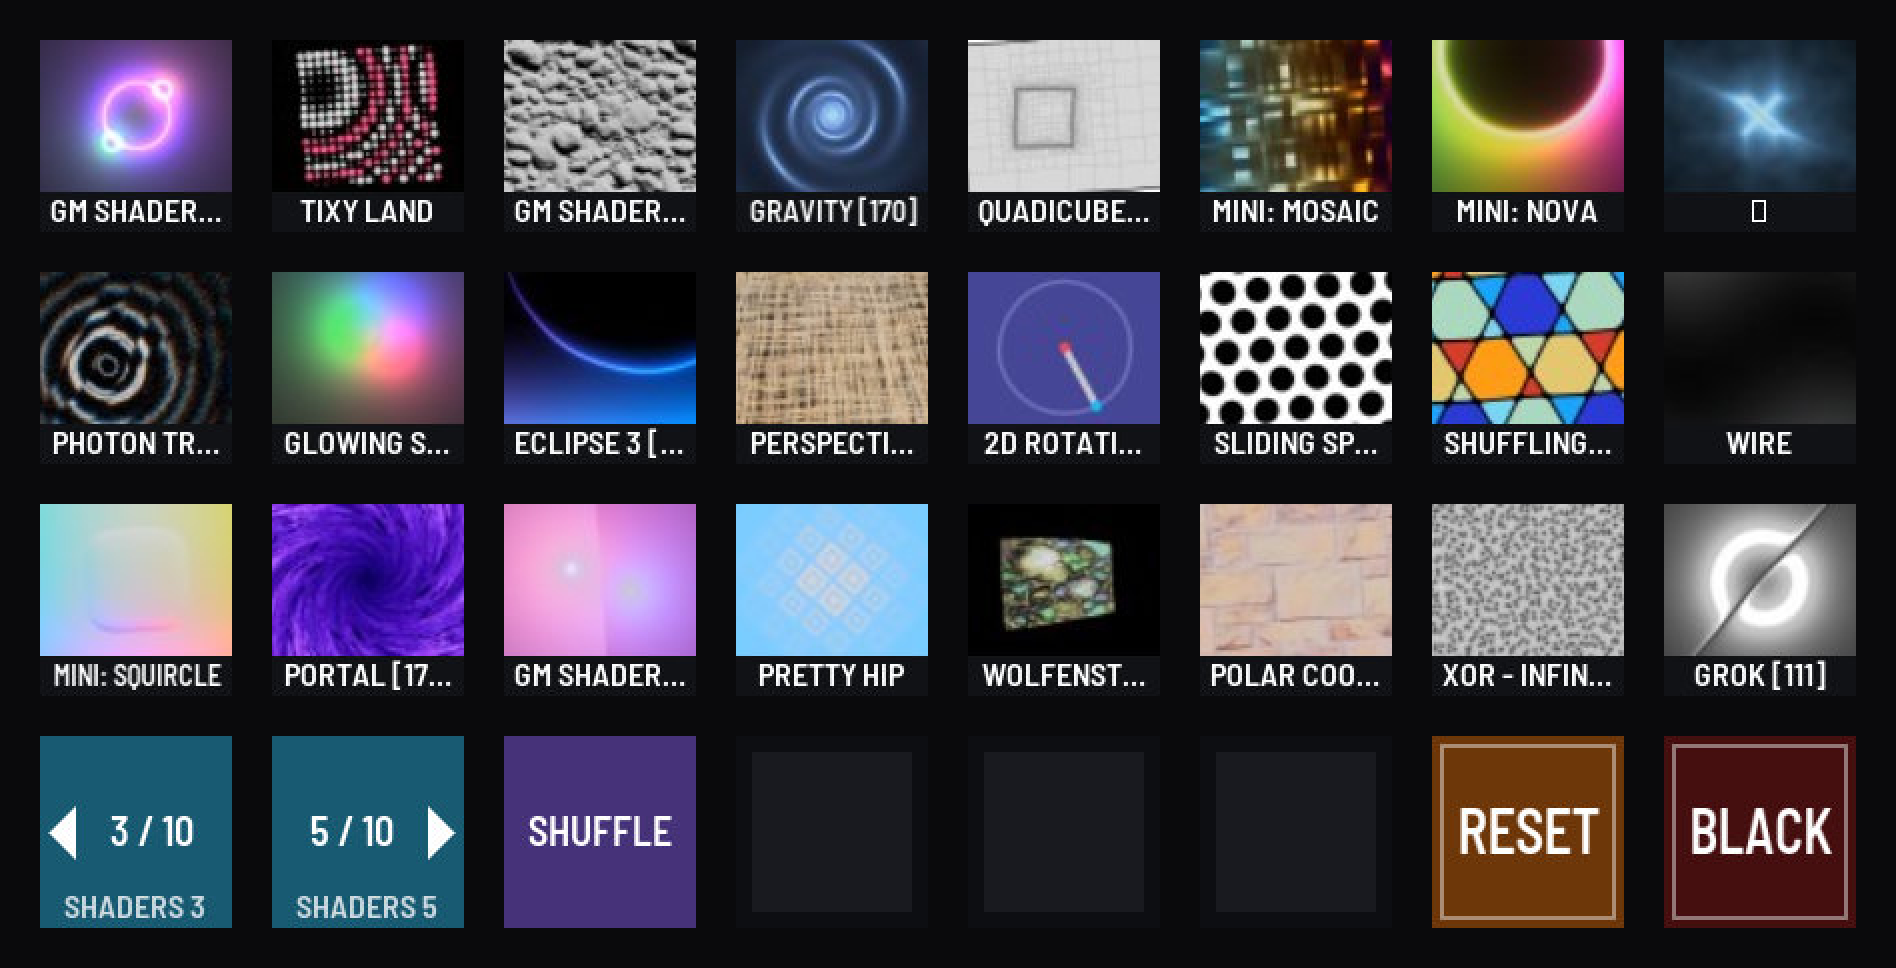
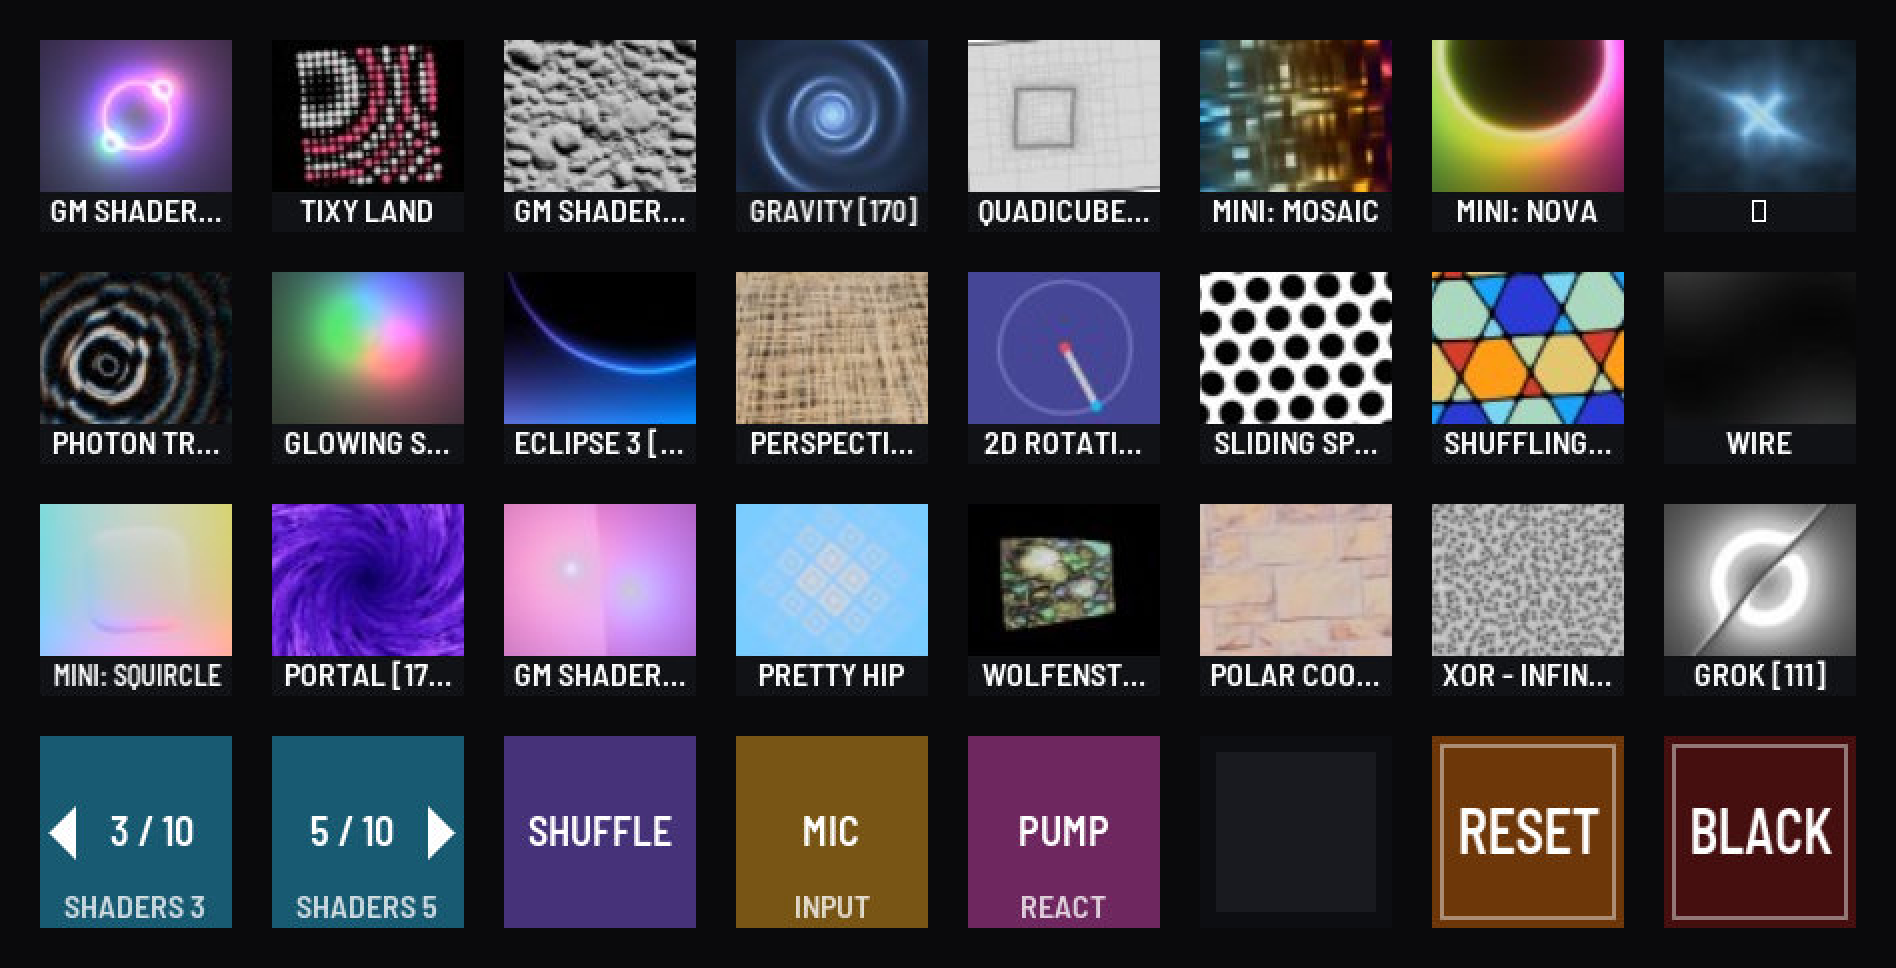
feat(engine): add an input level key and a key that steps through react modes
MIC/LINE sets the sound card's own capture gain (24 dB or 6 dB), ahead of
the converter, and survives a reset. The react key steps through five ways
of handing the music to the shaders: PUMP (as heard), GLIDE (slow
followers, no hits), STEP (a new held pose each beat), RIDE (a steady
travel whose speed and depth follow the energy) and TWIST (bass and mids
trade places). The levels are reshaped in the renderer, so no shader
changes.

Changed region(s): [[0.3734, 0.7438, 0.6224, 0.9607]]

diff --git a/engine/src/audio.rs b/engine/src/audio.rs
@@ -92,6 +92,73 @@ pub fn idle_audio(frame: &AudioFrame, time: f32, amount: f32) -> AudioFrame {
     }
     out
 }
+/// The ways shaders can follow the music, in the order the key steps through them.
+pub const REACT_MODES: [&str; 5] = ["PUMP", "GLIDE", "STEP", "RIDE", "TWIST"];
+/// Share of the zoom and of the turn in each pose that STEP walks through.
+const STEP_POSES: [(f32, f32); 4] = [(1.0, 0.2), (0.3, 1.0), (0.7, 0.5), (0.1, 0.8)];
+/// Reshapes the levels handed to the shaders, so one shader answers the music in
+/// several ways without being changed itself:
+/// - PUMP: the levels as heard; every kick shows.
+/// - GLIDE: slow followers and no hits; the picture swells and sinks with the energy.
+/// - STEP: each beat snaps to a new pose, which holds until the next beat.
+/// - RIDE: a steady travel in and out whose speed and depth follow the energy.
+/// - TWIST: bass and mids trade places, so kicks turn the picture and melody pumps it.
+#[derive(Clone, Debug, Default)]
+pub struct Reactor {
+    /// Followers of bass, mid, treble, volume, sub, low mid and high mid.
+    slow: [f32; 7],
+    held: [f32; 7],
+    shown: [f32; 7],
+    steps: usize,
+    since_beat: f32,
+    in_beat: bool,
+    phase: f32,
+}
+impl Reactor {
+    pub fn apply(&mut self, mode: u8, dt: f32, audio: &AudioFrame) -> AudioFrame {
+        let heard = [audio.bass, audio.mid, audio.treble, audio.volume, audio.sub, audio.low_mid, audio.high_mid];
+        for (slow, level) in self.slow.iter_mut().zip(heard) {
+            let seconds = if level > *slow { 0.5 } else { 1.5 };
+            *slow += (level - *slow) * (1.0 - (-dt / seconds).exp());
+        }
+        // A follower sits well under the peaks it follows; lift it to a comparable size.
+        let glide = self.slow.map(|v| (v * 1.6).min(1.0));
+        let beat = audio.onset > 0.4 && !self.in_beat;
+        self.in_beat = audio.onset > 0.4;
+        self.since_beat += dt;
+        if beat {
+            self.since_beat = 0.0;
+            self.steps += 1;
+            let (zoom, turn) = STEP_POSES[self.steps % STEP_POSES.len()];
+            let (low, middle) = ((glide[0] * 1.3 * zoom).min(1.0), (glide[1] * 1.3 * turn).min(1.0));
+            self.held = [low, middle, glide[2], glide[3], low, middle, middle];
+        } else if self.since_beat > 2.0 {
+            // No beat to step on: follow the energy instead of freezing.
+            self.held = glide;
+        }
+        for (shown, held) in self.shown.iter_mut().zip(self.held) {
+            *shown += (held - *shown) * (1.0 - (-dt / 0.05).exp());
+        }
+        let energy = glide[3].max(glide[0]);
+        self.phase = (self.phase + dt * (0.05 + 0.45 * energy)).rem_euclid(1000.0);
+        let levels = match mode {
+            1 => glide,
+            2 => self.shown,
+            3 => {
+                let depth = (0.3 + 0.9 * energy).min(1.0) * energy.min(0.1) * 10.0;
+                let wave = |rate: f32| (0.5 - 0.5 * (self.phase * rate * std::f32::consts::TAU).cos()) * depth;
+                let (low, middle) = (wave(1.0), wave(0.618));
+                [low, middle, glide[2], glide[3], low, middle, middle]
+            }
+            4 => [heard[1], (heard[0] + 0.5 * audio.onset).min(1.0), heard[2], heard[3], heard[5], heard[4], heard[0]],
+            _ => return audio.clone(),
+        };
+        let mut out = audio.clone();
+        [out.bass, out.mid, out.treble, out.volume, out.sub, out.low_mid, out.high_mid] = levels;
+        out.onset = 0.0;
+        out
+    }
+}
 /// Shortest time between two section changes, seconds.
 pub const SECTION_MIN_GAP: f32 = 12.0;
 /// A section that never changes still ends after this long.
@@ -474,6 +541,58 @@ mod tests {
                 clock.tick(dt, bpm, &audio)
             })
             .collect()
+    }
+    /// Each mode's bass over ten seconds of kicks at 128 BPM, with the onsets heard.
+    fn react(mode: u8) -> Vec<(f32, f32)> {
+        let (dt, beat) = (1.0 / 60.0, 60.0 / 128.0);
+        let mut reactor = Reactor::default();
+        (0..600)
+            .map(|frame| {
+                let since = (frame as f32 * dt / beat).fract();
+                let kick = (1.0 - since).powi(3);
+                let audio = AudioFrame {
+                    volume: 0.4 + 0.3 * kick,
+                    bass: 0.9 * kick,
+                    sub: 0.9 * kick,
+                    mid: 0.3,
+                    low_mid: 0.3,
+                    high_mid: 0.3,
+                    treble: 0.1,
+                    onset: (1.0 - since * 6.0).max(0.0),
+                    ..AudioFrame::default()
+                };
+                let out = reactor.apply(mode, dt, &audio);
+                for level in [out.bass, out.mid, out.treble, out.volume, out.sub, out.low_mid, out.high_mid] {
+                    assert!((0.0..=1.0).contains(&level), "mode {mode}: {level}");
+                }
+                (out.bass, out.onset)
+            })
+            .collect()
+    }
+    /// Largest move of the bass from one frame to the next, once settled.
+    fn roughest(run: &[(f32, f32)]) -> f32 {
+        run[300..].windows(2).map(|pair| (pair[1].0 - pair[0].0).abs()).fold(0.0, f32::max)
+    }
+    #[test]
+    fn react_modes_reshape_how_the_levels_move() {
+        let pump = react(0);
+        assert!(roughest(&pump) > 0.5 && pump.iter().any(|frame| frame.1 > 0.9));
+        // An unknown mode is the plain one.
+        assert_eq!(react(200), pump);
+        for mode in 1..REACT_MODES.len() as u8 {
+            let run = react(mode);
+            assert!(run.iter().all(|frame| frame.1 == 0.0), "mode {mode} passes hits on");
+            assert!(run[300..].iter().any(|frame| frame.0 > 0.15), "mode {mode} stays flat");
+        }
+        // GLIDE and RIDE have no jumps; TWIST moves the kick off the bass.
+        for mode in [1, 3, 4] {
+            assert!(roughest(&react(mode)) < 0.05, "mode {mode}: {}", roughest(&react(mode)));
+        }
+        // STEP holds its pose: most frames barely move, and the beats between them do.
+        let step = react(2);
+        let moves: Vec<f32> = step[300..].windows(2).map(|pair| (pair[1].0 - pair[0].0).abs()).collect();
+        let still = moves.iter().filter(|m| **m < 0.005).count();
+        assert!(still * 2 > moves.len() && roughest(&step) > 0.05, "{still} of {}", moves.len());
     }
     /// Times at which the detector reports a change, for `(seconds, volume, bass, mids)` parts
     /// played one after another with a kick on every beat at 128 BPM.

diff --git a/engine/src/control.rs b/engine/src/control.rs
@@ -44,6 +44,10 @@ pub enum Command {
     ToggleLayerOrder,
     /// Change shader by itself whenever the music moves to a new section.
     ToggleAutoShuffle,
+    /// Sound card input gain for a microphone or for a line-level source.
+    ToggleInputLevel,
+    /// Step to the next way of following the music (`audio::REACT_MODES`).
+    CycleReact,
     /// One of the eight performance macros (X-Touch layer B knobs), 0..=1.
     SetMacro { index: u8, value: f32 },
     CrateShader { crate_id: u8 },
@@ -89,6 +93,11 @@ pub struct State {
     pub macros: [f32; 8],
     #[serde(default)]
     pub auto_shuffle: bool,
+    #[serde(default)]
+    pub line_input: bool,
+    /// Index into `audio::REACT_MODES`.
+    #[serde(default)]
+    pub react: u8,
     #[serde(default)]
     pub failed_shaders: Vec<usize>,
     #[serde(default)]
@@ -166,6 +175,8 @@ impl State {
             invert_order: false,
             macros: MACRO_DEFAULTS,
             auto_shuffle: false,
+            line_input: false,
+            react: 0,
             failed_shaders: Vec::new(),
             shader_crates: Vec::new(),
             deleted_shaders: Vec::new(),
@@ -205,6 +216,7 @@ impl State {
             && self.selected_shader.is_none_or(|i| i < self.shaders)
             && self.video_effect <= 24
             && self.shader_effect <= 24
+            && usize::from(self.react) < crate::audio::REACT_MODES.len()
             && [
                 self.opacity,
                 self.video_opacity,
@@ -339,6 +351,8 @@ impl State {
             }
             Command::ToggleLayerOrder => self.invert_order = !self.invert_order,
             Command::ToggleAutoShuffle => self.auto_shuffle = !self.auto_shuffle,
+            Command::ToggleInputLevel => self.line_input = !self.line_input,
+            Command::CycleReact => self.react = (self.react + 1) % crate::audio::REACT_MODES.len() as u8,
             Command::SetMacro { index, value } => {
                 unit(value)?;
                 *self.macros.get_mut(usize::from(index)).ok_or("unknown macro")? = value;
@@ -377,6 +391,7 @@ impl State {
                 s.bpm = self.default_bpm;
                 // The input trim belongs to the venue, not to the look being reset.
                 s.input_gain = self.input_gain;
+                s.line_input = self.line_input;
                 s.generation = self.generation.wrapping_add(1);
                 *self = s;
             }

diff --git a/engine/src/surface.rs b/engine/src/surface.rs
@@ -203,6 +203,17 @@ pub fn page(show: &Show, state: &State) -> Vec<KeyDescriptor> {
             keys[26].caption = "ON".into();
         }
     }
+    // The next two name what is set now; a press moves on to the other or the next.
+    if keys[27].kind == KeyKind::Empty {
+        let (label, color) = if state.line_input { ("LINE", [20, 110, 120]) } else { ("MIC", [120, 85, 20]) };
+        keys[27] = key(label, Some(Command::ToggleInputLevel), color);
+        keys[27].caption = "INPUT".into();
+    }
+    if keys[28].kind == KeyKind::Empty {
+        let label = crate::audio::REACT_MODES.get(usize::from(state.react)).copied().unwrap_or("PUMP");
+        keys[28] = key(label, Some(Command::CycleReact), [110, 40, 95]);
+        keys[28].caption = "REACT".into();
+    }
     keys
 }
 #[cfg(test)]
@@ -256,6 +267,18 @@ mod tests {
         state.apply(Command::ToggleAutoShuffle).unwrap();
         let keys = page(&show, &state);
         assert_eq!((keys[26].state, keys[26].caption.as_str()), (KeyState::Active, "ON"));
+        // Its neighbours show the current setting and step on when pressed.
+        assert_eq!((keys[27].label.as_str(), keys[28].label.as_str()), ("MIC", "PUMP"));
+        state.apply(keys[27].command.unwrap()).unwrap();
+        for name in ["GLIDE", "STEP", "RIDE", "TWIST", "PUMP"] {
+            state.apply(keys[28].command.unwrap()).unwrap();
+            let keys = page(&show, &state);
+            assert_eq!((keys[27].label.as_str(), keys[28].label.as_str()), ("LINE", name));
+        }
+        // A reset returns the look, not the venue's input setting.
+        state.apply(Command::CycleReact).unwrap();
+        state.apply(Command::Reset).unwrap();
+        assert_eq!((state.react, state.line_input), (0, true));
         state.page = 1;
         assert_eq!(page(&show, &state)[26].command, Some(Command::ToggleHud));
     }

diff --git a/engine/src/native/mod.rs b/engine/src/native/mod.rs
@@ -84,6 +84,7 @@ pub fn run(
     let (mut idle_clock, mut idle_tick, mut idle) = (Instant::now(), Instant::now(), 0.0f32);
     let mut last_audio = Instant::now();
     let (mut sections, mut section_count) = (crate::audio::SectionDetector::default(), 0u32);
+    let (mut reactor, mut line_applied) = (crate::audio::Reactor::default(), None);
     let mut events = sdl.event_pump().map_err(anyhow::Error::msg)?;
     let mut state = State::from_show(&show);
     if !link.external() {
@@ -163,6 +164,12 @@ pub fn run(
             }
         }
         capture::set_gain(state.input_gain);
+        if line_applied != Some(state.line_input) {
+            line_applied = Some(state.line_input);
+            if let Some(name) = show.audio_device.as_deref() {
+                capture::set_line_level(name, state.line_input);
+            }
+        }
         if state.speed != speed {
             speed = state.speed;
             let value = speed.to_string();
@@ -178,6 +185,8 @@ pub fn run(
                     Ok(device) => {
                         capture = Some(device);
                         last_audio = Instant::now();
+                        // A card that was plugged in again has forgotten its gain.
+                        line_applied = None;
                     }
                     Err(error) => eprintln!("audio unavailable: {error:#}"),
                 }
@@ -212,6 +221,7 @@ pub fn run(
             section_count = section_count.wrapping_add(1);
         }
         let moving = crate::audio::idle_audio(&heard, idle_clock.elapsed().as_secs_f32(), idle);
+        let moving = reactor.apply(state.react, idle_dt, &moving);
         let mut candidate_error = None;
         for (index, player) in players.iter_mut().enumerate() {
             if let Err(error) = player.poll() {

diff --git a/engine/src/native/capture.rs b/engine/src/native/capture.rs
@@ -13,6 +13,32 @@ pub fn set_gain(gain: f32) {
     GAIN.store(gain.to_bits(), Ordering::Relaxed);
 }
 
+/// Sound card capture gain for the two kinds of source, in its 0.5 dB steps.
+const MIC_CAPTURE: u8 = 48;
+const LINE_CAPTURE: u8 = 12;
+/// Set the sound card's own input gain for a microphone or a line-level source. It acts
+/// ahead of the converter, where a line signal at microphone gain would clip. Runs in
+/// the background; the picture never waits for the mixer.
+pub fn set_line_level(device: &str, line: bool) {
+    let name = device.split(',').next().unwrap_or(device).trim().to_owned();
+    std::thread::spawn(move || {
+        let cards = std::fs::read_to_string("/proc/asound/cards").unwrap_or_default();
+        let card = cards.lines().find(|l| l.contains(&name)).and_then(|l| l.split_whitespace().next());
+        let Some(card) = card else {
+            eprintln!("input level: no sound card named {name}");
+            return;
+        };
+        let (label, value) = if line { ("line", LINE_CAPTURE) } else { ("mic", MIC_CAPTURE) };
+        let done = std::process::Command::new("amixer")
+            .args(["-q", "-c", card, "cset", "name=Mic Capture Volume", &value.to_string()])
+            .status();
+        match done {
+            Ok(status) if status.success() => eprintln!("input level: {label}, capture gain {value}"),
+            other => eprintln!("input level not set: {other:?}"),
+        }
+    });
+}
+
 pub struct Capture {
     samples: [f32; HOP * 2],
     used: usize,
